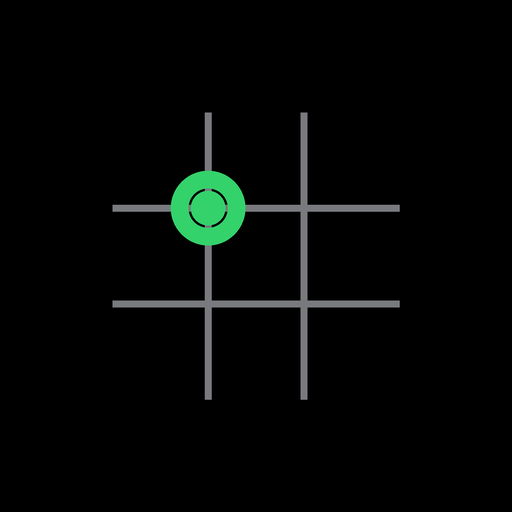
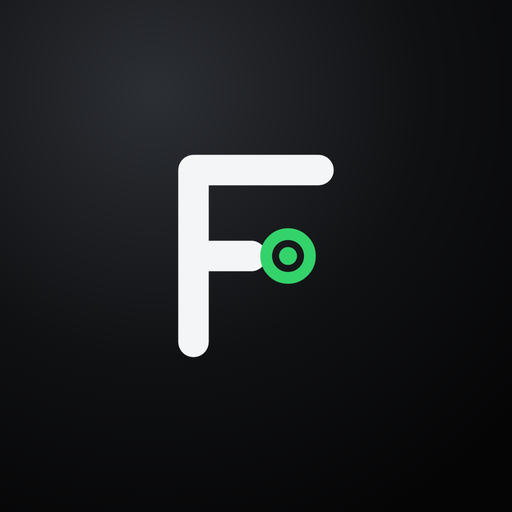
셀카 얼굴 가이드, 탭해서 대상 선택(인식 대상 고정·임의 지점 추적), 새 아이콘(F 모노그램)
Claude-Session: https://claude.ai/code/session_01GRX2TAAJocQE9HzdanEZYi

diff --git a/index.html b/index.html
@@ -98,7 +98,7 @@ svg{display:block}
 #shutter:disabled{opacity:.35}
 
 /* 스낵바 */
-#snack{position:fixed;left:16px;right:16px;bottom:calc(var(--sb) + 124px);margin:auto;max-width:420px;background:#2c2e31;color:var(--ink);border-radius:10px;padding:13px 16px;font-size:14px;box-shadow:0 8px 24px rgba(0,0,0,.4);opacity:0;transform:translateY(8px);pointer-events:none;transition:opacity 200ms ease,transform 300ms var(--ease-out);z-index:30}
+#snack{position:fixed;left:16px;right:16px;bottom:calc(var(--sb) + 252px);margin:auto;max-width:420px;background:#2c2e31;color:var(--ink);border-radius:10px;padding:13px 16px;font-size:14px;box-shadow:0 8px 24px rgba(0,0,0,.4);opacity:0;transform:translateY(8px);pointer-events:none;transition:opacity 200ms ease,transform 300ms var(--ease-out);z-index:30}
 #snack.on{opacity:1;transform:none}
 
 /* 시작 화면 */
@@ -164,6 +164,7 @@ svg{display:block}
     <div class="top-mid">
       <span class="chip" id="chipZoom" hidden></span>
       <span class="chip" id="chipEv" hidden></span>
+      <button class="chip btn" id="bUnpin" hidden>선택 해제</button>
       <button class="chip btn" id="bEndPractice" hidden>연습 끝내기</button>
     </div>
     <button class="icon-btn" id="bGrid" aria-pressed="true" aria-label="격자선">
@@ -331,7 +332,38 @@ function boxToStage(b,v){
   const [ax,ay]=toStage(b.x,b.y,v),[bx,by]=toStage(b.x+b.w,b.y+b.h,v);
   return [Math.min(ax,bx),Math.min(ay,by),Math.max(ax,bx),Math.max(ay,by)];
 }
-function subject(v){
+const selfie=()=>S.src==='cam'&&S.facing==='user';
+function pinSubject(v,now){
+  const p=S.pin;
+  if(p.kind==='track'){
+    const s=.11*W;return {x0:p.x-s,y0:p.y-s,x1:p.x+s,y1:p.y+s,ax:p.x,ay:p.y,person:false,group:false,people:[]};
+  }
+  // 탭한 인식 대상을 계속 따라감
+  if(S.src==='cam'&&S.dets.length){
+    const best=S.dets.map(d=>[iou(d,p.box),d]).sort((a,b)=>b[0]-a[0])[0];
+    if(best&&best[0]>.2){p.box=best[1];p.seen=now}
+  }
+  if(S.src==='cam'&&now-p.seen>1500){S.pin=null;snack('선택한 대상을 놓쳤어요. 다시 탭해 주세요');return null}
+  return toSub(p.box,v,false);
+}
+function toSub(box,v,group,people){
+  const [x0,y0,x1,y1]=boxToStage(box,v);
+  let ax=(x0+x1)/2,ay=(y0+y1)/2;
+  if(box.cat==='face'){[ax,ay]=toStage(box.ex,box.ey,v)}
+  else if(box.cat==='person')ay=y0+(y1-y0)*(group?.22:.32);
+  return {x0,y0,x1,y1,ax,ay,person:box.cat==='person'||box.cat==='face',group,people:people||[]};
+}
+function subject(v,now){
+  if(S.pin)return pinSubject(v,now);
+  if(selfie()&&S.dets.length&&S.dets[0].cat==='face'){
+    const fs=S.dets;
+    if(S.mode==='group'&&fs.length>1){
+      const u=union(fs);u.cat='face';u.ex=fs.reduce((a,f)=>a+f.ex,0)/fs.length;u.ey=fs.reduce((a,f)=>a+f.ey,0)/fs.length;
+      return toSub(u,v,true,fs.map(d=>boxToStage(d,v)));
+    }
+    const f=S.prevBox?fs.map(d=>[iou(d,S.prevBox),d]).sort((a,b)=>b[0]-a[0])[0][1]:fs.reduce((a,b)=>a.w*a.h>b.w*b.h?a:b);
+    S.prevBox=f;return toSub(f,v,false);
+  }
   const ps=S.dets.filter(d=>d.cat==='person');
   const list=ps.length?ps:S.dets;if(!list.length)return null;
   const group=S.mode==='group'&&ps.length>0;
@@ -355,8 +387,14 @@ function stabilize(sub,now){
   p.people=sub.people;p.person=sub.person;p.group=sub.group;S.sm.seen=now;return p;
 }
 function pickTarget(sub){
+  if(selfie()&&!S.pin){
+    // 셀카: 눈높이는 위쪽 1/3선, 가로는 가장 가까운 1/3·가운데
+    const xs=[1/3,.5,2/3],cx=sub.ax/W;
+    S.target={x:sub.group?.5:xs.reduce((a,b)=>Math.abs(b-cx)<Math.abs(a-cx)?b:a),y:1/3};S.zoomDone=true;return;
+  }
   if(sub.group)S.target={x:.5,y:1/3};
   else S.target={x:sub.ax/W<.5?1/3:2/3,y:sub.ay/H<.5?1/3:2/3};
+  if(S.pin&&(S.pin.kind==='track'||S.pin.box.cat==='pick'))S.zoomDone=true;
   if(!S.zoomDone){
     const ratio=(sub.y1-sub.y0)/H,want=sub.group?.6:.5;
     const rec=clamp(Math.round(S.zoom*want/Math.max(ratio,.05)*2)/2,1,3);
@@ -365,7 +403,9 @@ function pickTarget(sub){
 }
 
 /* ---------- 상태 초기화 / 줌 / 노출 ---------- */
+function resetGuide(){S.target=null;S.ok=false;S.sm=null;S.prevBox=null;S.recZoom=null;lastUI=''}
 function reset(){
+  S.pin=null;S.tapFx=null;const ub=document.querySelector('#bUnpin');if(ub)ub.hidden=true;
   S.target=null;S.ok=false;S.sm=null;S.prevBox=null;S.recZoom=null;S.zoomDone=false;S.hz=null;S.bc=null;S.scene=null;
   S.ev=null;S.evDone=false;S.evApplied=0;S.evFactor=1;cv.style.filter='';
   if(S.track){const c=S.track.getCapabilities?.()||{};if(c.exposureCompensation)S.track.applyConstraints({advanced:[{exposureCompensation:0}]}).catch(()=>{})}
@@ -412,7 +452,68 @@ function measureEv(sub){
 function norm(dets,w,h){
   return dets.map(d=>({x:d.boundingBox.originX/w,y:d.boundingBox.originY/h,w:d.boundingBox.width/w,h:d.boundingBox.height/h,cat:d.categories?.[0]?.categoryName||''}));
 }
+function normFaces(dets,w,h){
+  return dets.map(d=>{const b=d.boundingBox,k=d.keypoints||[];
+    const two=k.length>1;
+    return {x:b.originX/w,y:b.originY/h,w:b.width/w,h:b.height/h,cat:'face',
+      ex:two?(k[0].x+k[1].x)/2:(b.originX+b.width/2)/w,ey:two?(k[0].y+k[1].y)/2:(b.originY+b.height*.4)/h}});
+}
 function nextTs(){S.lastTs=Math.max(performance.now(),S.lastTs+1);return S.lastTs}
+
+/* ---------- 탭한 지점 따라가기 (건물·물건 등 인식 목록에 없는 대상) ---------- */
+const TW=120,TH=160,TR=9,SR=12;
+const tcv=document.createElement('canvas');tcv.width=TW;tcv.height=TH;
+const tcx=tcv.getContext('2d',{willReadFrequently:true});
+function grayFrame(){
+  tcx.drawImage(cv,0,0,TW,TH);const d=tcx.getImageData(0,0,TW,TH).data,g=new Float32Array(TW*TH);
+  for(let i=0;i<g.length;i++)g[i]=.299*d[i*4]+.587*d[i*4+1]+.114*d[i*4+2];return g;
+}
+function patch(g,cx,cy){
+  const n=2*TR+1,p=new Float32Array(n*n);let m=0;
+  for(let y=-TR;y<=TR;y++)for(let x=-TR;x<=TR;x++){const v=g[(cy+y)*TW+cx+x];p[(y+TR)*n+x+TR]=v;m+=v}
+  m/=n*n;for(let i=0;i<p.length;i++)p[i]-=m;return p;
+}
+const clampC=(cx,cy)=>[clamp(cx,TR,TW-TR-1),clamp(cy,TR,TH-TR-1)];
+function startTrack(px,py,now){
+  const g=grayFrame(),[cx,cy]=clampC(Math.round(px/W*TW),Math.round(py/H*TH));
+  const tpl=patch(g,cx,cy);let v=0;for(const t of tpl)v+=t*t;
+  // 무늬가 거의 없는 곳은 따라갈 단서가 없으니 화면 위 고정점으로 둠
+  S.pin={kind:'track',cx,cy,x:px,y:py,tpl,seen:now,flat:Math.sqrt(v/tpl.length)<7};
+}
+function updateTrack(now){
+  const p=S.pin;if(p.flat){p.seen=now;return}
+  const g=grayFrame(),n=2*TR+1,N=(TR+1)**2;
+  const cost=(cx,cy)=>{let m=0;for(let y=-TR;y<=TR;y+=2)for(let x=-TR;x<=TR;x+=2)m+=g[(cy+y)*TW+cx+x];
+    m/=N;let e=0;for(let y=-TR;y<=TR;y+=2)for(let x=-TR;x<=TR;x+=2)e+=Math.abs(g[(cy+y)*TW+cx+x]-m-p.tpl[(y+TR)*n+x+TR]);return e/N};
+  const stay=cost(p.cx,p.cy);let best=stay,bx=p.cx,by=p.cy;
+  for(let dy=-SR;dy<=SR;dy++)for(let dx=-SR;dx<=SR;dx++){
+    if(!dx&&!dy)continue;
+    const [cx,cy]=clampC(p.cx+dx,p.cy+dy);if(cx!==p.cx+dx||cy!==p.cy+dy)continue;
+    const e=cost(cx,cy);if(e<best){best=e;bx=cx;by=cy}
+  }
+  // 제자리보다 확실히 나을 때만 움직여서 흘러가는 것을 막음
+  if(best>stay*.85){bx=p.cx;by=p.cy;best=stay}
+  const err=best;
+  if(err<24){
+    p.cx=bx;p.cy=by;p.seen=now;
+    const tx=(bx+.5)/TW*W,ty=(by+.5)/TH*H;p.x+=(tx-p.x)*.5;p.y+=(ty-p.y)*.5;
+    if(err<14){const fresh=patch(g,bx,by);for(let i=0;i<p.tpl.length;i++)p.tpl[i]=p.tpl[i]*.9+fresh[i]*.1}
+  }else if(now-p.seen>1200){S.pin=null;snack('선택한 대상을 놓쳤어요. 다시 탭해 주세요')}
+}
+function selectAt(px,py,now){
+  const v=view();if(!v)return;
+  S.tapFx={x:px,y:py,t:now};
+  const hits=S.dets.map(d=>[d,boxToStage(d,v)]).filter(([,b])=>px>=b[0]&&px<=b[2]&&py>=b[1]&&py<=b[3])
+    .sort((a,b)=>(a[1][2]-a[1][0])*(a[1][3]-a[1][1])-(b[1][2]-b[1][0])*(b[1][3]-b[1][1]));
+  resetGuide();
+  if(hits.length){S.pin={kind:'det',box:hits[0][0],seen:now};snack(hits[0][0].cat==='face'?'이 얼굴을 기준으로 맞출게요':'이 대상을 기준으로 맞출게요')}
+  else if(S.src==='photo'){
+    let nx=(px-v.ox)/(v.w*v.s);const ny=(py-v.oy)/(v.h*v.s),bw=.22*W/(v.w*v.s),bh=.22*H/(v.h*v.s);
+    S.pin={kind:'det',box:{x:nx-bw/2,y:ny-bh/2,w:bw,h:bh,cat:'pick'},seen:now};snack('탭한 곳을 기준으로 맞출게요');
+  }else{startTrack(px,py,now);snack('탭한 곳을 따라가며 맞출게요')}
+  $('#bUnpin').hidden=false;
+}
+function clearPin(){S.pin=null;$('#bUnpin').hidden=true;resetGuide()}
 function detectPhoto(){
   if(!S.det){S.pending=true;return}
   S.pending=false;
@@ -501,6 +602,11 @@ function dirText(sub){
     return cam?`${right?'오른쪽':'왼쪽'}으로 돌려 건물을 가운데에 두세요`:`사진을 ${right?'왼쪽':'오른쪽'}으로 끌어주세요`;
   }
   const dx=(sub.ax-S.target.x*W)/W,dy=(sub.ay-S.target.y*H)/H;
+  if(selfie()){
+    const h=Math.abs(dx)>.025?(dx>0?'휴대폰을 오른쪽으로 옮겨주세요':'휴대폰을 왼쪽으로 옮겨주세요'):'';
+    const vv=Math.abs(dy)>.025?(dy>0?'휴대폰을 조금 내려주세요':'휴대폰을 조금 올려주세요'):'';
+    return (Math.abs(dx)>=Math.abs(dy)?h:vv)||h||vv;
+  }
   const hx=Math.abs(dx)>.025?(cam?(dx>0?'오른쪽으로 돌려주세요':'왼쪽으로 돌려주세요'):(dx>0?'왼쪽으로 끌어주세요':'오른쪽으로 끌어주세요')):'';
   const vy=Math.abs(dy)>.025?(cam?(dy>0?'아래로 기울여주세요':'위로 들어주세요'):(dy>0?'위로 끌어주세요':'아래로 끌어주세요')):'';
   const first=Math.abs(dx)>=Math.abs(dy)?hx:vy;
@@ -517,11 +623,11 @@ function ui(sub){
   let t,s='',go=false,c=null;
   const scene=S.mode==='land'||S.mode==='arch';
   if(!sub){
-    if(scene){t=S.mode==='land'?'수평선을 찾고 있어요':'건물을 찾고 있어요';s=S.mode==='land'?'하늘과 땅의 경계가 보이게 담아주세요':'건물 정면이 보이게 담아주세요'}
-    else{t=S.loading?'인식을 준비하고 있어요':'찍을 대상을 찾고 있어요';s=S.src==='photo'?'주인공을 탭하면 직접 지정할 수 있어요':'사람이나 물건을 화면에 담아주세요'}
+    if(scene){t=S.mode==='land'?'수평선을 찾고 있어요':'건물을 찾고 있어요';s=S.mode==='land'?'하늘과 땅의 경계가 보이게 담거나, 기준으로 삼을 곳을 탭하세요':'건물 정면을 담거나, 맞추고 싶은 건물을 탭하세요'}
+    else{t=S.loading?'인식을 준비하고 있어요':selfie()?'얼굴을 찾고 있어요':'찍을 대상을 찾고 있어요';s=selfie()?'얼굴이 화면에 보이게 들어주세요':'찍고 싶은 대상을 탭해서 고를 수도 있어요'}
   }
   else if(S.recZoom){t=`${S.recZoom}배로 당기면 더 좋아요`;s='대상이 화면에 비해 작아요';c=['zoom',`${S.recZoom}× 적용`]}
-  else if(!S.ok){t=S.mode==='land'?'수평선을 흰 선에 맞춰주세요':S.mode==='arch'?'건물을 반듯하게 맞춰주세요':'점을 원 안에 넣어주세요';s=dirText(sub)}
+  else if(!S.ok){t=S.pin?'고른 대상을 원 안에 넣어주세요':S.mode==='land'?'수평선을 흰 선에 맞춰주세요':S.mode==='arch'?'건물을 반듯하게 맞춰주세요':selfie()?'눈높이 점을 원 안에 넣어주세요':'점을 원 안에 넣어주세요';s=dirText(sub)}
   else if(!S.evDone){go=true;t='구도가 맞았어요';
     if(S.ev==null)s='밝기를 확인하고 있어요';else{s=S.ev>0?'조금 어두워요. 밝기를 올릴까요?':'조금 밝아요. 밝기를 내릴까요?';c=['ev',`밝기 ${S.ev>0?'+':''}${S.ev}`]}}
   else{go=true;t='지금 찍으세요';s=S.src==='photo'?'셔터를 누르면 이 구도로 잘라 저장해요':'초록색일 때 셔터를 누르세요'}
@@ -556,8 +662,13 @@ function targetMark(sub,now){
   oc.fillStyle=col;oc.beginPath();oc.arc(sub.ax,sub.ay,8,0,7);oc.fill();
   oc.strokeStyle='rgba(0,0,0,.35)';oc.lineWidth=1;oc.stroke();
 }
+function drawTap(now){
+  const f=S.tapFx;if(!f)return;const p=(now-f.t)/420;if(p>=1){S.tapFx=null;return}
+  oc.setLineDash([]);oc.globalAlpha=1-p;oc.strokeStyle=C.ink;oc.lineWidth=2;
+  oc.beginPath();oc.arc(f.x,f.y,30-12*(1-(1-p)**3),0,7);oc.stroke();oc.globalAlpha=1;
+}
 function drawPeople(sub,now){
-  oc.clearRect(0,0,W,H);gridLines(false);
+  oc.clearRect(0,0,W,H);gridLines(false);drawTap(now);
   if(!sub||!S.target)return;
   const col=S.ok?C.go:C.ink;
   oc.setLineDash([6,6]);oc.lineWidth=1.5;oc.strokeStyle='rgba(244,245,246,.6)';
@@ -601,11 +712,14 @@ function frame(now){
   ctx.save();ctx.clearRect(0,0,W,H);
   if(mirrored()){ctx.translate(W,0);ctx.scale(-1,1)}
   ctx.drawImage(S.src==='cam'?vid:S.img,v.ox,v.oy,v.w*v.s,v.h*v.s);ctx.restore();
-  if(S.mode==='land'||S.mode==='arch'){const {sub,t}=sceneState(now);drawScene(sub,t,now);ui(sub);return}
-  if(S.src==='cam'&&S.det&&now-S.lastDet>90){
-    S.lastDet=now;try{const r=S.det.detectForVideo(vid,nextTs());S.dets=norm(r.detections,vid.videoWidth,vid.videoHeight)}catch(e){}
+  const scene=S.mode==='land'||S.mode==='arch';
+  if(scene&&!S.pin){const {sub,t}=sceneState(now);drawScene(sub,t,now);drawTap(now);ui(sub);return}
+  if(S.src==='cam'&&now-S.lastDet>90){
+    const face=selfie()&&S.face&&!(S.pin&&S.pin.kind==='track'),det=face?S.face:S.det;
+    if(det&&!(S.pin&&S.pin.kind==='track')){S.lastDet=now;try{const r=det.detectForVideo(vid,nextTs());S.dets=face?normFaces(r.detections,vid.videoWidth,vid.videoHeight):norm(r.detections,vid.videoWidth,vid.videoHeight)}catch(e){}}
   }
-  let sub=subject(v);
+  if(S.pin&&S.pin.kind==='track')updateTrack(now);
+  let sub=subject(v,now);
   if(S.src==='cam')sub=stabilize(sub,now);
   if(sub&&!S.target)pickTarget(sub);
   if(sub&&S.target){
@@ -613,7 +727,9 @@ function frame(now){
     setOk(!S.recZoom&&(S.ok?d<.055:d<.035));
     if(S.ok&&!S.evDone&&S.ev==null&&now-S.lastEv>400){S.lastEv=now;measureEv(sub)}
   }else setOk(false);
-  drawPeople(sub,now);ui(sub);
+  drawPeople(sub,now);
+  if(scene){const t=tiltNow(now);if(t)drawLevel(t)}
+  ui(sub);
 }
 requestAnimationFrame(frame);
 
@@ -661,6 +777,7 @@ $('#file').addEventListener('change',e=>{
 });
 $('#bFlip').addEventListener('click',()=>{S.facing=S.facing==='environment'?'user':'environment';startCam()});
 $('#bEndPractice').addEventListener('click',startCam);
+$('#bUnpin').addEventListener('click',clearPin);
 $('#vfRetry').addEventListener('click',startCam);
 $('#vfPractice').addEventListener('click',pickPhoto);
 
@@ -674,22 +791,17 @@ for(const b of document.querySelectorAll('#modes button'))b.addEventListener('cl
 /* ---------- 사진 연습: 끌기 / 탭 ---------- */
 let drag=null;
 stage.addEventListener('pointerdown',e=>{
-  if(e.target.closest('button')||S.src!=='photo'||drag)return;
+  if(e.target.closest('button')||!S.src||drag)return;
   drag={id:e.pointerId,x:e.clientX,y:e.clientY,px:S.pan.x,py:S.pan.y,moved:false};stage.setPointerCapture(e.pointerId);S.anim=null;
 });
 stage.addEventListener('pointermove',e=>{
   if(!drag||e.pointerId!==drag.id)return;const dx=e.clientX-drag.x,dy=e.clientY-drag.y;
   if(Math.hypot(dx,dy)>6)drag.moved=true;
-  if(drag.moved)S.pan={x:drag.px+dx,y:drag.py+dy};
+  if(drag.moved&&S.src==='photo'){S.pan={x:drag.px+dx,y:drag.py+dy};if(S.pin&&S.pin.kind==='track')S.pin=null}
 });
 stage.addEventListener('pointerup',e=>{
   if(!drag||e.pointerId!==drag.id)return;
-  if(!drag.moved&&S.mode!=='land'&&S.mode!=='arch'){
-    const r=stage.getBoundingClientRect(),v=view();
-    if(v){const nx=(e.clientX-r.left-v.ox)/(v.w*v.s),ny=(e.clientY-r.top-v.oy)/(v.h*v.s);
-      const bw=.26*W/(v.w*v.s),bh=.46*H/(v.h*v.s);
-      S.dets=[{x:nx-bw/2,y:ny-bh*.32,w:bw,h:bh,cat:'person'}];reset();snack('탭한 곳을 주인공으로 정했어요')}
-  }
+  if(!drag.moved){const r=stage.getBoundingClientRect();selectAt(e.clientX-r.left,e.clientY-r.top,performance.now())}
   drag=null;
 });
 stage.addEventListener('pointercancel',()=>{drag=null});
@@ -821,16 +933,20 @@ if(NATIVE){
 /* ---------- 인식 모델 (앱에서는 내장본, 웹에서는 CDN) ---------- */
 const V='0.10.14',CDN=`https://cdn.jsdelivr.net/npm/@mediapipe/tasks-vision@${V}`;
 const REMOTE_MODEL='https://storage.googleapis.com/mediapipe-models/object_detector/efficientdet_lite0/float16/1/efficientdet_lite0.tflite';
-async function loadDetector(base,model){
+const REMOTE_FACE='https://storage.googleapis.com/mediapipe-models/face_detector/blaze_face_short_range/float16/1/blaze_face_short_range.tflite';
+async function loadDetector(base,model,faceModel){
   const m=await import(`${base}/vision_bundle.mjs`);
   const fs=await m.FilesetResolver.forVisionTasks(`${base}/wasm`);
   const mk=d=>m.ObjectDetector.createFromOptions(fs,{baseOptions:{modelAssetPath:model,delegate:d},scoreThreshold:.45,maxResults:6,runningMode:'VIDEO'});
-  try{return await mk('GPU')}catch(e){return await mk('CPU')}
+  let det;try{det=await mk('GPU')}catch(e){det=await mk('CPU')}
+  const mf=d=>m.FaceDetector.createFromOptions(fs,{baseOptions:{modelAssetPath:faceModel,delegate:d},minDetectionConfidence:.5,runningMode:'VIDEO'});
+  mf('GPU').catch(()=>mf('CPU')).then(f=>{S.face=f}).catch(()=>{});
+  return det;
 }
 (async()=>{
   try{
-    if(NATIVE){try{S.det=await loadDetector(new URL('vendor/mediapipe',location.href).href.replace(/\/$/,''),'models/efficientdet_lite0.tflite')}catch(e){}}
-    if(!S.det)S.det=await loadDetector(CDN,REMOTE_MODEL);
+    if(NATIVE){try{S.det=await loadDetector(new URL('vendor/mediapipe',location.href).href.replace(/\/$/,''),'models/efficientdet_lite0.tflite','models/blaze_face_short_range.tflite')}catch(e){}}
+    if(!S.det)S.det=await loadDetector(CDN,REMOTE_MODEL,REMOTE_FACE);
     if(S.pending&&S.img)detectPhoto();
   }catch(e){snack('인식 기능을 불러오지 못했어요. 인터넷 연결을 확인해 주세요')}
   S.loading=false;lastUI='';

diff --git a/STORE.md b/STORE.md
@@ -33,6 +33,12 @@
 ■ 건축 (PRO)
 휴대폰이 위로 들려 건물이 좁아지는 왜곡을 실시간으로 알려 주고, 건물을 화면 가운데에 반듯하게 세우도록 안내합니다.
 
+■ 셀카
+전면 카메라에서는 얼굴을 찾아 눈높이를 위쪽 3분의 1 선에 맞추도록 안내합니다.
+
+■ 원하는 대상을 탭해서 선택
+사람, 얼굴, 건물, 물건 등 화면에서 맞추고 싶은 대상을 탭하면 그 대상을 따라가며 구도를 잡아 줍니다.
+
 ■ 사진으로 연습
 갖고 있는 사진을 불러와 손가락으로 끌면서 구도 맞추는 연습을 할 수 있어요.
 
